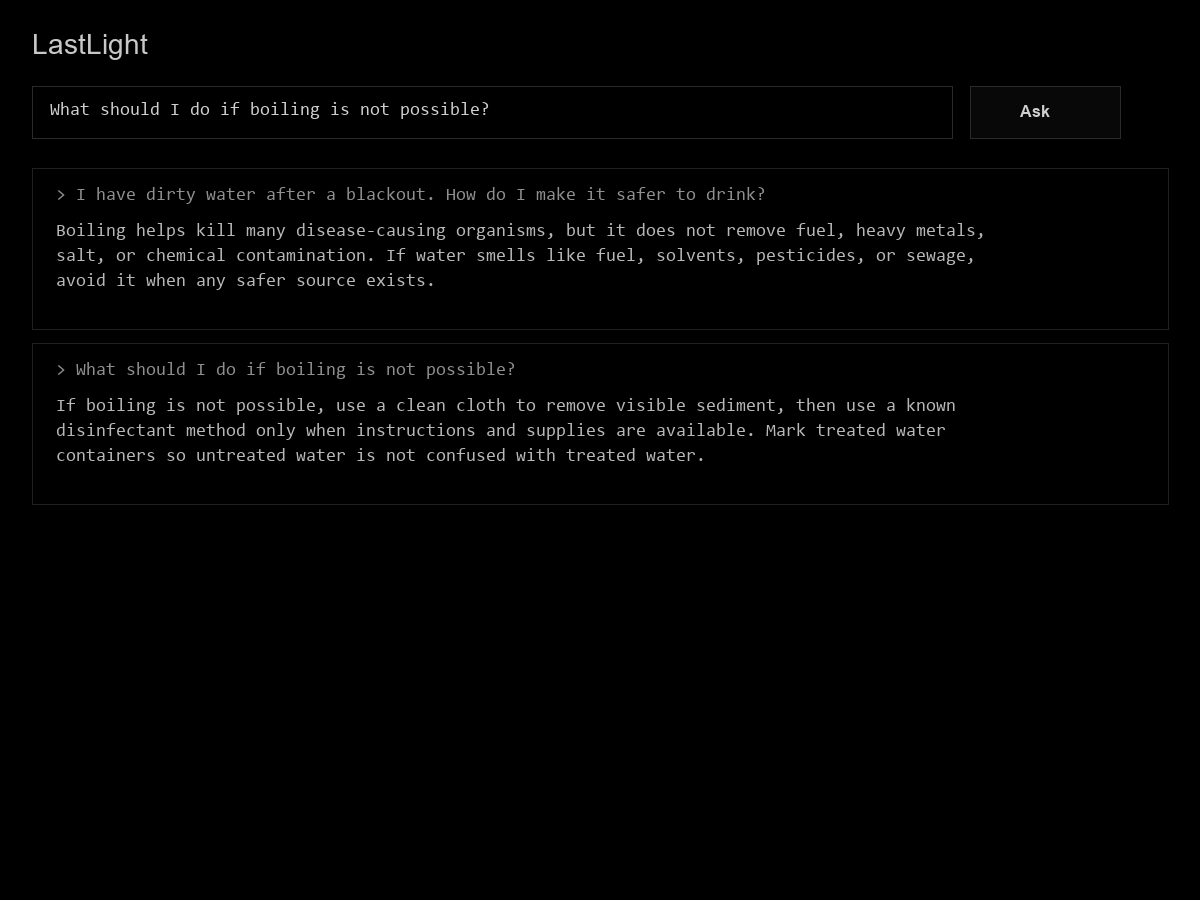
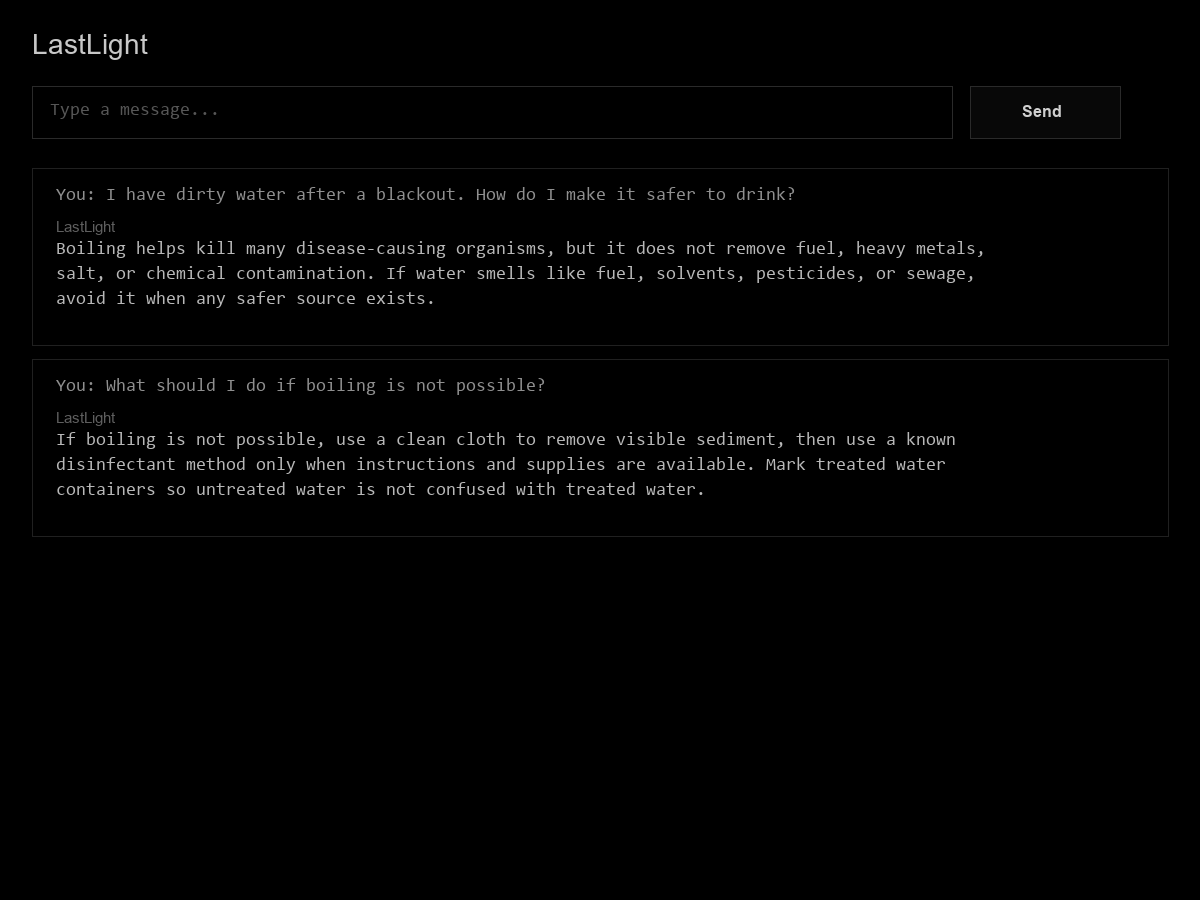
Polish web chat input

diff --git a/src/lastlight/web.py b/src/lastlight/web.py
@@ -42,7 +42,7 @@ main {{
   padding: 1rem;
 }}
 h1 {{ color: #c8c8c8; font-size: 1.25rem; margin: 0 0 1rem; }}
-form {{ display: flex; gap: .5rem; margin-bottom: 1rem; }}
+form {{ display: flex; gap: .6rem; margin-bottom: 1rem; }}
 input {{
   flex: 1;
   min-width: 0;
@@ -51,10 +51,12 @@ input {{
   border: 1px solid #2a2a2a;
   padding: .7rem;
 }}
+input::placeholder {{ color: #565656; }}
 button {{
   background: #080808;
   color: #cfcfcf;
   border: 1px solid #2a2a2a;
+  min-width: 5.5rem;
   padding: .7rem .9rem;
   font-weight: 700;
 }}
@@ -68,17 +70,23 @@ pre {{
   overflow-wrap: anywhere;
   background: #000;
   color: #b8b8b8;
-  border: 1px solid #202020;
-  padding: 1rem;
+  border: 0;
+  margin: 0;
+  padding: 0;
 }}
 .turn {{
   border: 1px solid #202020;
   margin-bottom: .75rem;
-  padding: .8rem;
+  padding: .9rem;
 }}
 .q {{
   color: #8f8f8f;
   margin-bottom: .45rem;
+}}
+.a-label {{
+  color: #5f5f5f;
+  font-size: .85rem;
+  margin-bottom: .35rem;
 }}
 .muted {{ color: #777; }}
 </style>
@@ -87,8 +95,8 @@ pre {{
 <main>
 <h1>LastLight</h1>
 <form method="post">
-<input name="q" value="{escaped_query}" autocomplete="off" autofocus>
-<button>Ask</button>
+<input name="q" value="{escaped_query}" placeholder="Type a message..." autocomplete="off" autofocus>
+<button>Send</button>
 </form>
 {output}
 </main>
@@ -105,7 +113,8 @@ def render_history(history: list[tuple[str, str]]) -> str:
     for query, answer in history[-MAX_TURNS:]:
         parts.append(
             "<section class=\"turn\">"
-            f"<div class=\"q\">&gt; {escape(query)}</div>"
+            f"<div class=\"q\">You: {escape(query)}</div>"
+            "<div class=\"a-label\">LastLight</div>"
             f"<pre>{escape(answer)}</pre>"
             "</section>"
         )

diff --git a/tests/test_web.py b/tests/test_web.py
@@ -36,6 +36,7 @@ class WebTests(unittest.TestCase):
         self.assertIn("&lt;answer&gt;", html)
         self.assertNotIn("<query>", html)
         self.assertNotIn("<answer>", html)
+        self.assertIn('placeholder="Type a message..."', html)
 
     def test_render_history_shows_multiple_turns(self) -> None:
         html = render_history(
@@ -45,9 +46,10 @@ class WebTests(unittest.TestCase):
             ]
         )
 
-        self.assertIn("&gt; generator safety", html)
+        self.assertIn("You: generator safety", html)
         self.assertIn("Keep it outside.", html)
-        self.assertIn("&gt; indoors?", html)
+        self.assertIn("You: indoors?", html)
+        self.assertIn("LastLight", html)
         self.assertIn("Do not run it indoors.", html)
 
     def test_solution_answer_returns_only_passage(self) -> None: